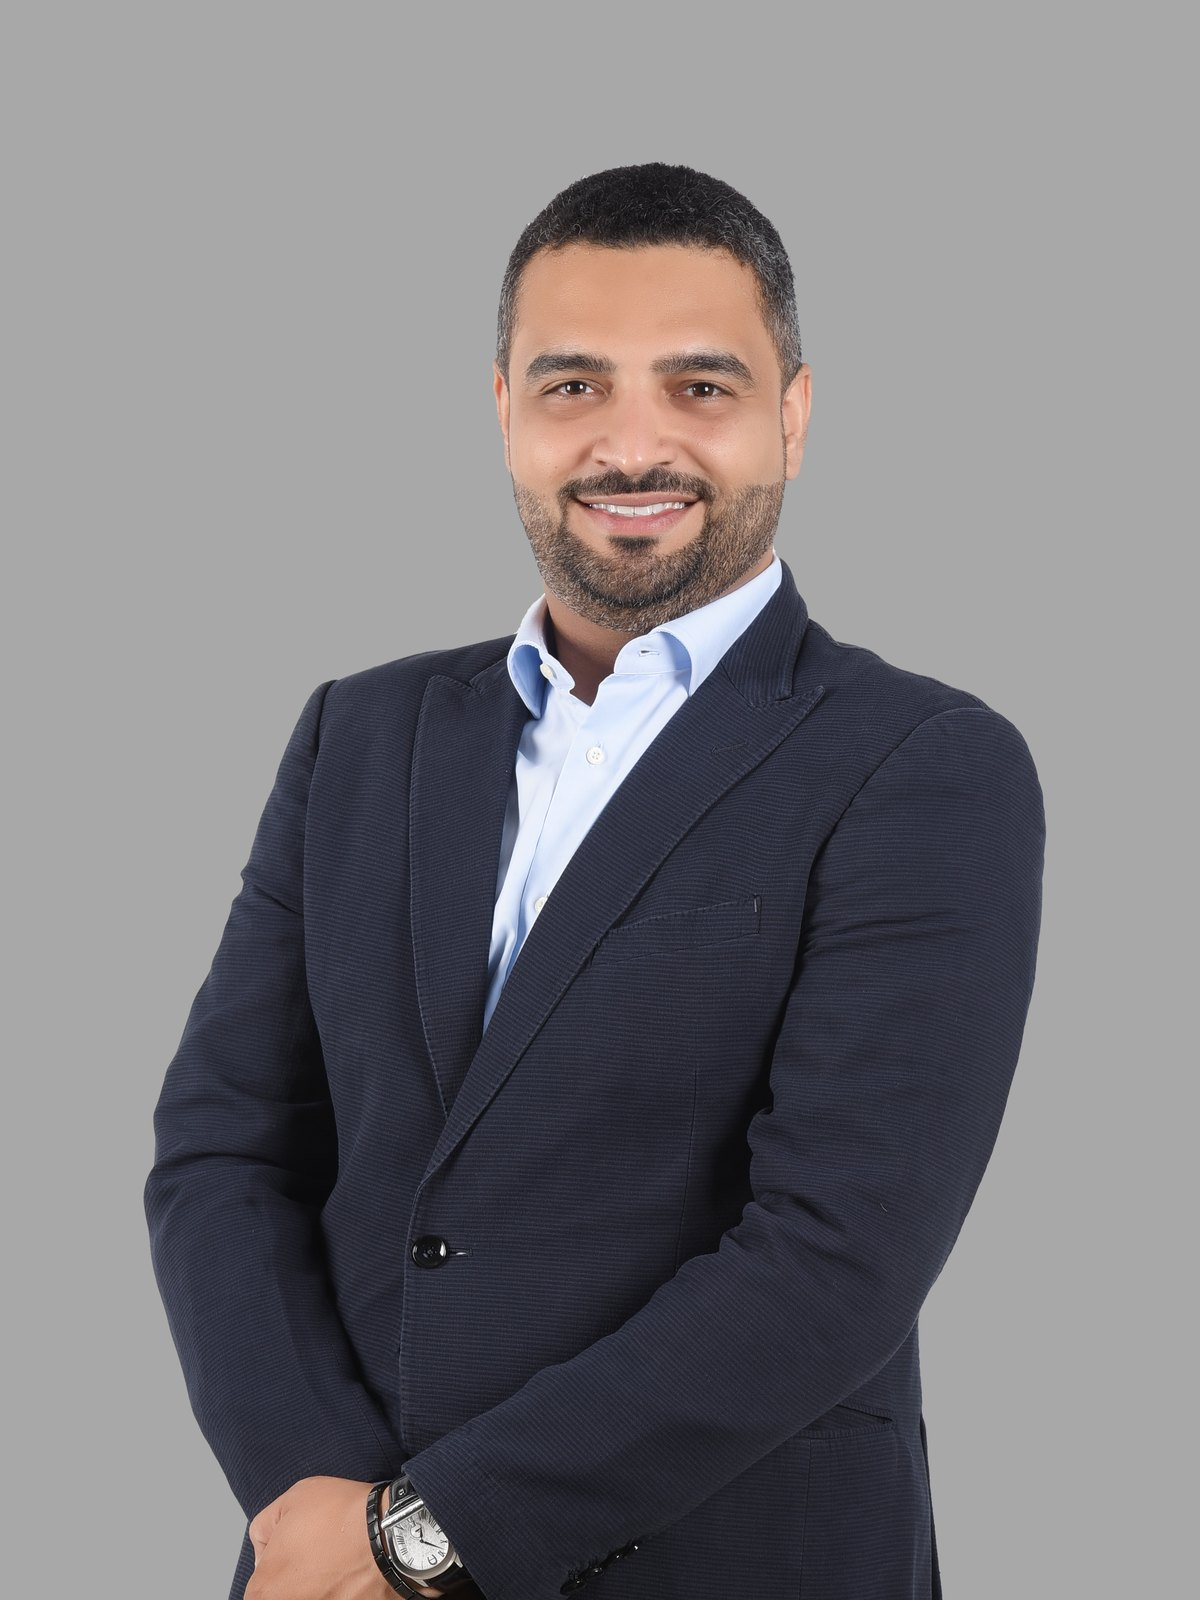
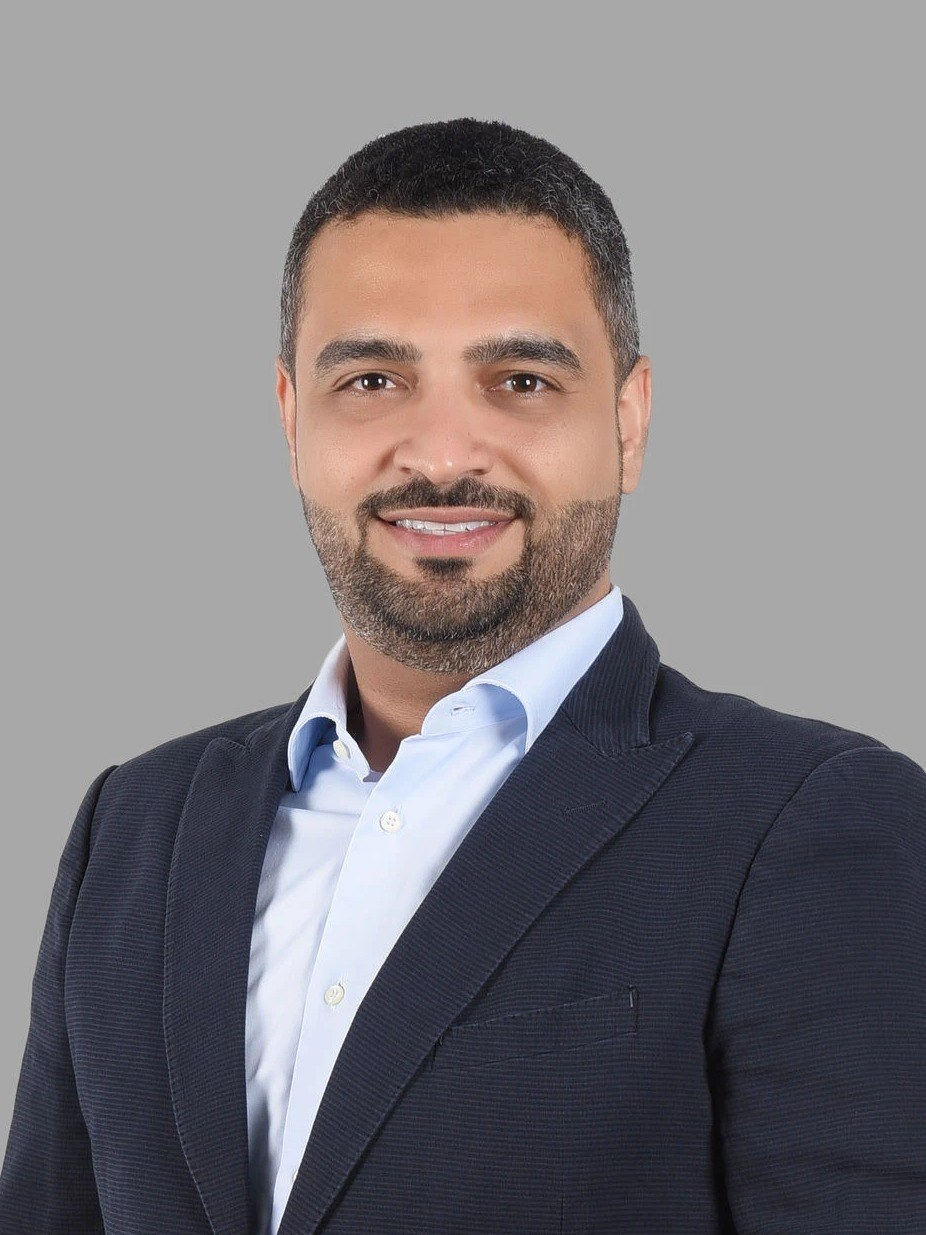
Publish site 2026-09-07

diff --git a/index.html b/index.html
@@ -711,7 +711,7 @@
 </div>
 <img class="hero-portrait" src="assets/headshot.jpg"
      alt="Alawi AlAlawi, Digitalization Manager at BMW Group KSA, Riyadh"
-     width="1200" height="1600" loading="eager" decoding="async" />
+     width="926" height="1235" loading="eager" decoding="async" />
 </div>
 </header>
 
